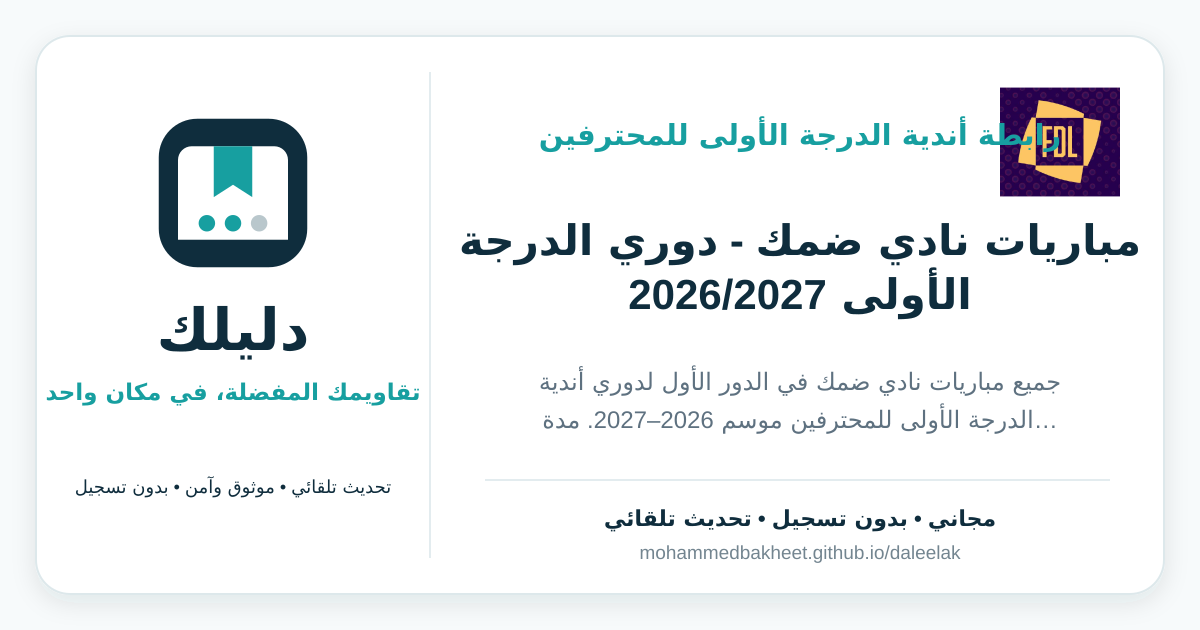
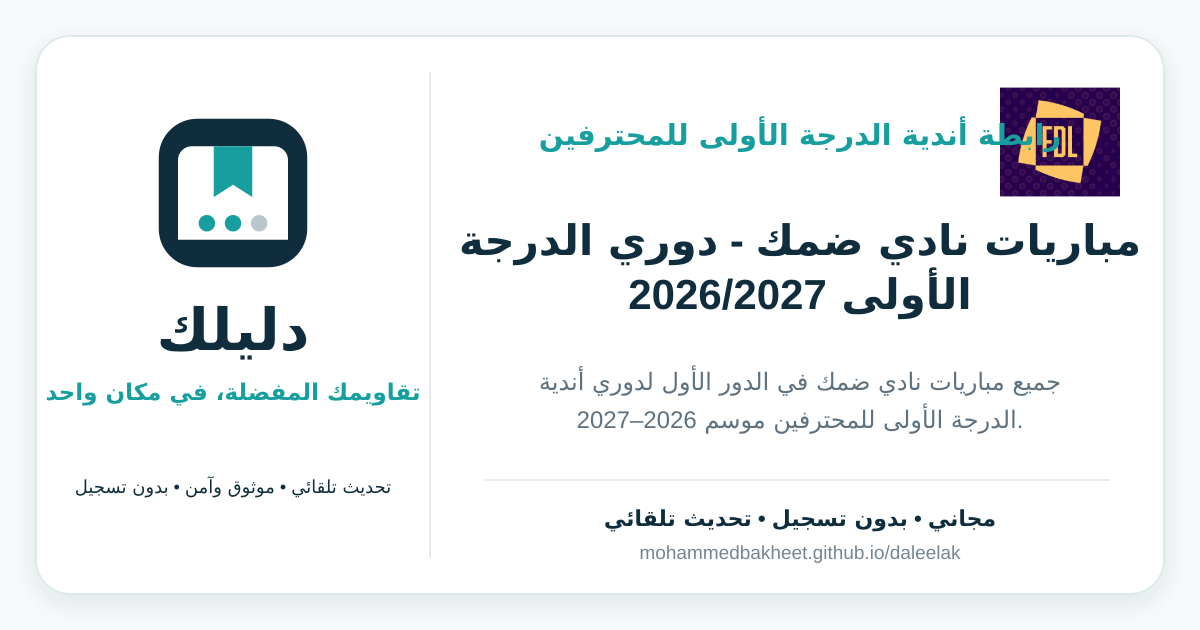
chore: update generated calendar data

Changed region(s): [[0.4625, 0.6333, 0.8633, 0.6937]]

diff --git a/share/YELLOW-DAMAC/index.html b/share/YELLOW-DAMAC/index.html
@@ -1,1 +1,1 @@
-<!doctype html><html lang="ar" dir="rtl"><head><meta charset="utf-8"><meta name="viewport" content="width=device-width,initial-scale=1"><title>مباريات نادي ضمك - دوري الدرجة الأولى 2026/2027 — رابطة أندية الدرجة الأولى للمحترفين | دليلك</title><meta name="description" content="جميع مباريات نادي ضمك في الدور الأول لدوري أندية الدرجة الأولى للمحترفين موسم 2026–2027. مدة المباراة في التقويم 105 دقائق، وتظهر الفرق بدوائر ملونة…"><link rel="canonical" href="https://mohammedbakheet.github.io/daleelak/share/YELLOW-DAMAC/"><meta property="og:type" content="website"><meta property="og:site_name" content="دليلك"><meta property="og:locale" content="ar_SA"><meta property="og:url" content="https://mohammedbakheet.github.io/daleelak/share/YELLOW-DAMAC/"><meta property="og:title" content="مباريات نادي ضمك - دوري الدرجة الأولى 2026/2027 — رابطة أندية الدرجة الأولى للمحترفين | دليلك"><meta property="og:description" content="جميع مباريات نادي ضمك في الدور الأول لدوري أندية الدرجة الأولى للمحترفين موسم 2026–2027. مدة المباراة في التقويم 105 دقائق، وتظهر الفرق بدوائر ملونة…"><meta property="og:image" content="https://mohammedbakheet.github.io/daleelak/og/YELLOW-DAMAC.png?v=8ecad5eba0b8"><meta property="og:image:secure_url" content="https://mohammedbakheet.github.io/daleelak/og/YELLOW-DAMAC.png?v=8ecad5eba0b8"><meta property="og:image:type" content="image/png"><meta property="og:image:width" content="1200"><meta property="og:image:height" content="630"><meta property="og:image:alt" content="بطاقة مباريات نادي ضمك - دوري الدرجة الأولى 2026/2027 من دليلك"><meta name="twitter:card" content="summary_large_image"><meta name="twitter:title" content="مباريات نادي ضمك - دوري الدرجة الأولى 2026/2027 — رابطة أندية الدرجة الأولى للمحترفين | دليلك"><meta name="twitter:description" content="جميع مباريات نادي ضمك في الدور الأول لدوري أندية الدرجة الأولى للمحترفين موسم 2026–2027. مدة المباراة في التقويم 105 دقائق، وتظهر الفرق بدوائر ملونة…"><meta name="twitter:image" content="https://mohammedbakheet.github.io/daleelak/og/YELLOW-DAMAC.png?v=8ecad5eba0b8"><meta name="theme-color" content="#0F2D3D"><link rel="icon" href="../../assets/icons/favicon-32.png"><meta http-equiv="refresh" content="1;url=https://mohammedbakheet.github.io/daleelak/calendar.html?id=YELLOW-DAMAC"><style>body{margin:0;min-height:100vh;display:grid;place-items:center;background:#f7fafb;color:#0f2d3d;font-family:Arial,sans-serif;text-align:center}.card{max-width:520px;padding:32px}.card img{width:92px}.card a{display:inline-block;margin-top:18px;padding:13px 22px;border-radius:12px;background:#179fa0;color:#fff;text-decoration:none;font-weight:700}</style><script>window.location.replace("https://mohammedbakheet.github.io/daleelak/calendar.html?id=YELLOW-DAMAC");</script></head><body><main class="card"><img src="../../assets/brand/logo-icon.svg" alt="دليلك"><h1>مباريات نادي ضمك - دوري الدرجة الأولى 2026/2027</h1><p>جميع مباريات نادي ضمك في الدور الأول لدوري أندية الدرجة الأولى للمحترفين موسم 2026–2027. مدة المباراة في التقويم 105 دقائق، وتظهر الفرق بدوائر ملونة…</p><a href="https://mohammedbakheet.github.io/daleelak/calendar.html?id=YELLOW-DAMAC">فتح صفحة التقويم</a></main></body></html>
+<!doctype html><html lang="ar" dir="rtl"><head><meta charset="utf-8"><meta name="viewport" content="width=device-width,initial-scale=1"><title>مباريات نادي ضمك - دوري الدرجة الأولى 2026/2027 — رابطة أندية الدرجة الأولى للمحترفين | دليلك</title><meta name="description" content="جميع مباريات نادي ضمك في الدور الأول لدوري أندية الدرجة الأولى للمحترفين موسم 2026–2027."><link rel="canonical" href="https://mohammedbakheet.github.io/daleelak/share/YELLOW-DAMAC/"><meta property="og:type" content="website"><meta property="og:site_name" content="دليلك"><meta property="og:locale" content="ar_SA"><meta property="og:url" content="https://mohammedbakheet.github.io/daleelak/share/YELLOW-DAMAC/"><meta property="og:title" content="مباريات نادي ضمك - دوري الدرجة الأولى 2026/2027 — رابطة أندية الدرجة الأولى للمحترفين | دليلك"><meta property="og:description" content="جميع مباريات نادي ضمك في الدور الأول لدوري أندية الدرجة الأولى للمحترفين موسم 2026–2027."><meta property="og:image" content="https://mohammedbakheet.github.io/daleelak/og/YELLOW-DAMAC.png?v=b860afecc6a7"><meta property="og:image:secure_url" content="https://mohammedbakheet.github.io/daleelak/og/YELLOW-DAMAC.png?v=b860afecc6a7"><meta property="og:image:type" content="image/png"><meta property="og:image:width" content="1200"><meta property="og:image:height" content="630"><meta property="og:image:alt" content="بطاقة مباريات نادي ضمك - دوري الدرجة الأولى 2026/2027 من دليلك"><meta name="twitter:card" content="summary_large_image"><meta name="twitter:title" content="مباريات نادي ضمك - دوري الدرجة الأولى 2026/2027 — رابطة أندية الدرجة الأولى للمحترفين | دليلك"><meta name="twitter:description" content="جميع مباريات نادي ضمك في الدور الأول لدوري أندية الدرجة الأولى للمحترفين موسم 2026–2027."><meta name="twitter:image" content="https://mohammedbakheet.github.io/daleelak/og/YELLOW-DAMAC.png?v=b860afecc6a7"><meta name="theme-color" content="#0F2D3D"><link rel="icon" href="../../assets/icons/favicon-32.png"><meta http-equiv="refresh" content="1;url=https://mohammedbakheet.github.io/daleelak/calendar.html?id=YELLOW-DAMAC"><style>body{margin:0;min-height:100vh;display:grid;place-items:center;background:#f7fafb;color:#0f2d3d;font-family:Arial,sans-serif;text-align:center}.card{max-width:520px;padding:32px}.card img{width:92px}.card a{display:inline-block;margin-top:18px;padding:13px 22px;border-radius:12px;background:#179fa0;color:#fff;text-decoration:none;font-weight:700}</style><script>window.location.replace("https://mohammedbakheet.github.io/daleelak/calendar.html?id=YELLOW-DAMAC");</script></head><body><main class="card"><img src="../../assets/brand/logo-icon.svg" alt="دليلك"><h1>مباريات نادي ضمك - دوري الدرجة الأولى 2026/2027</h1><p>جميع مباريات نادي ضمك في الدور الأول لدوري أندية الدرجة الأولى للمحترفين موسم 2026–2027.</p><a href="https://mohammedbakheet.github.io/daleelak/calendar.html?id=YELLOW-DAMAC">فتح صفحة التقويم</a></main></body></html>
